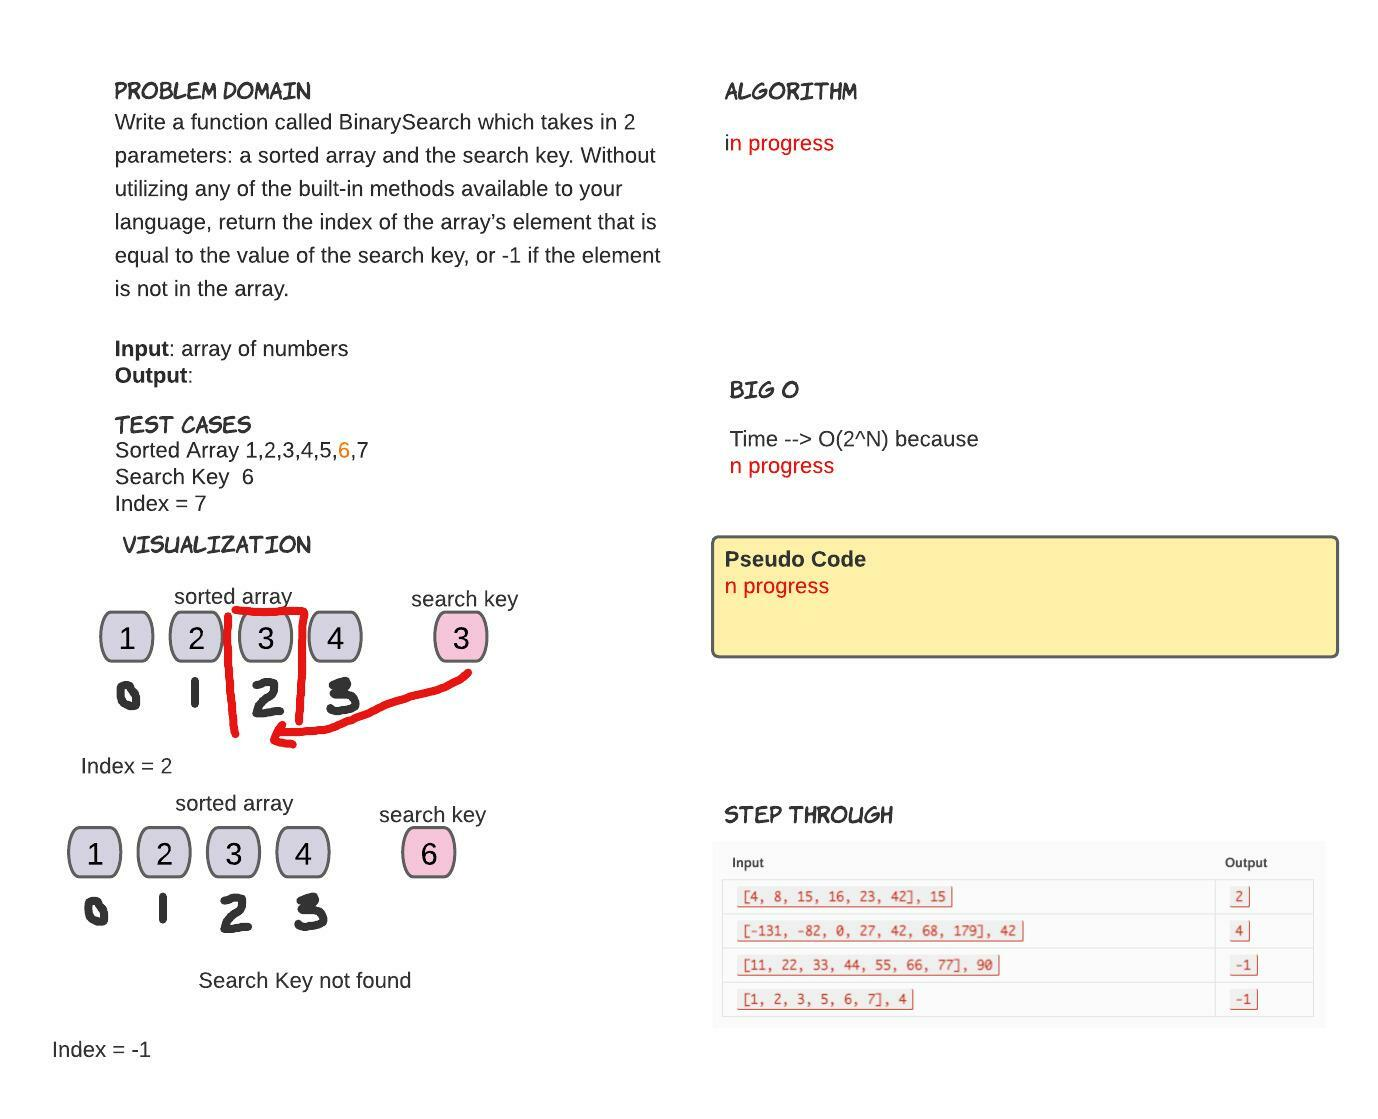
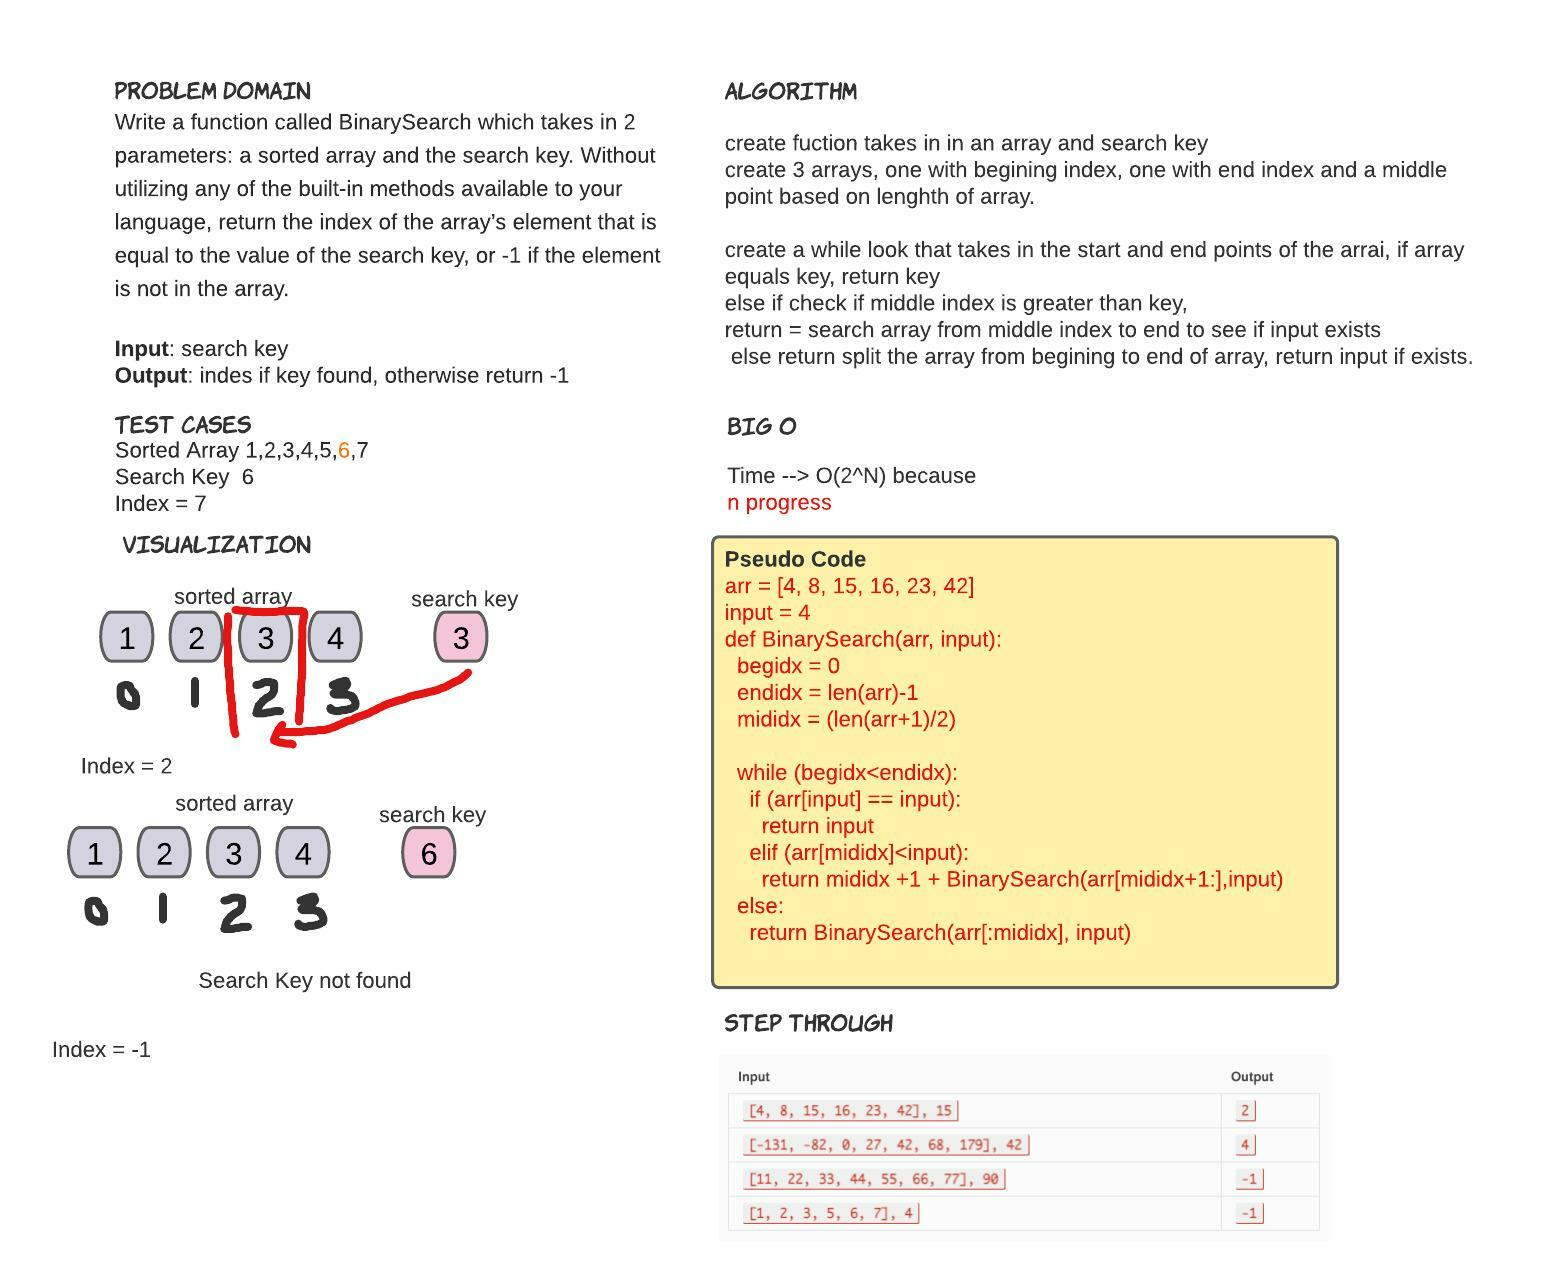
complete whiteboard

diff --git a/python/docs/array-binary-search/README.md b/python/docs/array-binary-search/README.md
@@ -9,4 +9,12 @@ Write a function called BinarySearch which takes in 2 parameters: a sorted array
 ## Approach & Efficiency
 <!-- What approach did you take? Discuss Why. What is the Big O space/time for this approach? -->
 
-**in progress**
+I started with basic for loop and realized that this formula would be more complex. I re-read the directions a few times before I realized what was being asked. I unfortunately could not wrap my head around the concept fully.
+
+I used a formula found: https://stackoverflow.com/questions/38346013/binary-search-in-a-python-list
+
+which seems like it would work but i didnt have sucess in testing.
+
+The Big O Space/time
+Space: O(N) because it will grow only in relation to the input used to search the array.
+Time: O(N²) because it will always use time based on size of list.
